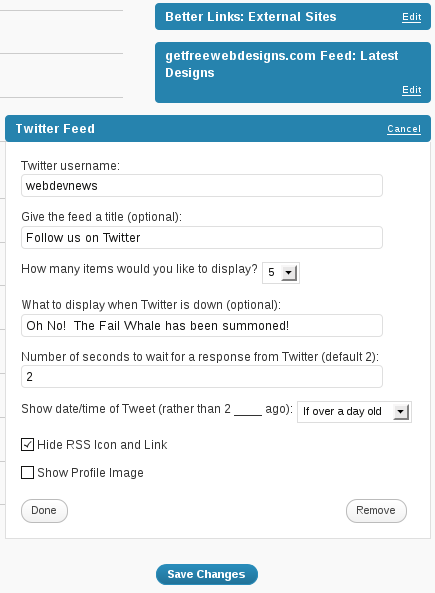
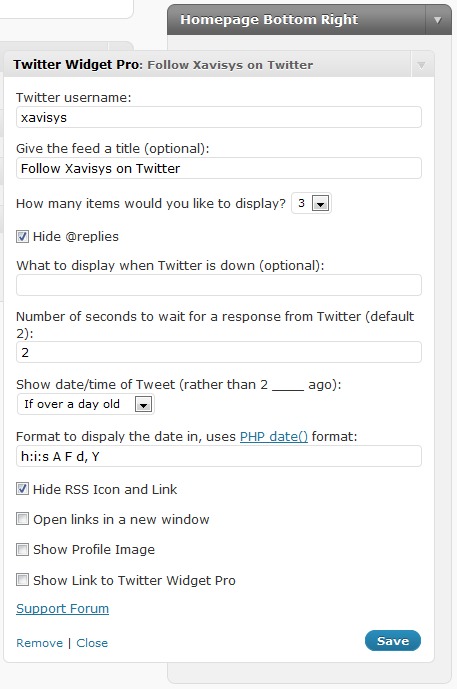
Tagging version 2.1.3 with new screenshots, the date format as a setting, and an extraneous closing XHTML tag removed
git-svn-id: https://plugins.svn.wordpress.org/twitter-widget-pro/tags/2.1.3@174968 b8457f37-d9ea-0310-8a92-e5e31aec5664

diff --git a/upgrade.html b/upgrade.html
@@ -1,5 +1,7 @@
 <p><a href="http://wordpress.org/extend/plugins/twitter-widget-pro/changelog/">Change Log</a></p>
 <ul style="list-style: disc inside; padding: 5px 0 0 15px; font-weight: normal;">
+	<li>2.1.2: Added links to the <a href="http://xavisys.com/support/forum/twitter-widget-pro/">Support Forum</a></li>
+	<li>2.1.2: Fixed spacing issue that was introduced in 2.1.1</li>
 	<li>2.1.1: Added an option to have all links open in new Windows</li>
 	<li>2.1.0: Added a shortcode to allow you to embed a widget in any post or page</li>
 	<li style="color:red; font-weight:bold;">2.0+: Now requires WordPress 2.8 and still requires PHP 5+</li>

diff --git a/wp-twitter-widget.php b/wp-twitter-widget.php
@@ -3,7 +3,7 @@
  * Plugin Name: Twitter Widget Pro
  * Plugin URI: http://xavisys.com/wordpress-plugins/wordpress-twitter-widget/
  * Description: A widget that properly handles twitter feeds, including @username, #hashtag, and link parsing.  It can even display profile images for the users.  Requires PHP5.
- * Version: 2.1.1
+ * Version: 2.1.3
  * Author: Aaron D. Campbell
  * Author URI: http://xavisys.com/
  * Text Domain: twitter-widget-pro
@@ -60,6 +60,7 @@ class WP_Widget_Twitter_Pro extends WP_Widget {
 								'targetBlank'		=> false,
 								'items'				=> 10,
 								'showts'			=> 60 * 60 * 24,
+								'dateFormat'		=> __('h:i:s A F d, Y', 'twitter-widget-pro'),
 		);
 
 		return wp_parse_args( $instance, $defaultArgs );
@@ -67,6 +68,7 @@ class WP_Widget_Twitter_Pro extends WP_Widget {
 
 	public function form( $instance ) {
 		$instance = $this->_getInstanceSettings( $instance );
+		$wpTwitterWidget = wpTwitterWidget::getInstance();
 ?>
 			<p>
 				<label for="<?php echo $this->get_field_id('username'); ?>"><?php _e('Twitter username:', 'twitter-widget-pro'); ?></label>
@@ -111,6 +113,10 @@ class WP_Widget_Twitter_Pro extends WP_Widget {
 				</select>
 			</p>
 			<p>
+				<label for="<?php echo $this->get_field_id('dateFormat'); ?>"><?php echo sprintf(__('Format to dispaly the date in, uses <a href="%s">PHP date()</a> format:', 'twitter-widget-pro'), 'http://php.net/date'); ?></label>
+				<input class="widefat" id="<?php echo $this->get_field_id('dateFormat'); ?>" name="<?php echo $this->get_field_name('dateFormat'); ?>" type="text" value="<?php esc_attr_e($instance['dateFormat']); ?>" />
+			</p>
+			<p>
 				<input class="checkbox" type="checkbox" value="true" id="<?php echo $this->get_field_id('hiderss'); ?>" name="<?php echo $this->get_field_name('hiderss'); ?>"<?php checked($instance['hiderss'], 'true'); ?> />
 				<label for="<?php echo $this->get_field_id('hiderss'); ?>"><?php _e('Hide RSS Icon and Link', 'twitter-widget-pro'); ?></label>
 			</p>
@@ -126,6 +132,7 @@ class WP_Widget_Twitter_Pro extends WP_Widget {
 				<input class="checkbox" type="checkbox" value="true" id="<?php echo $this->get_field_id('showXavisysLink'); ?>" name="<?php echo $this->get_field_name('showXavisysLink'); ?>"<?php checked($instance['showXavisysLink'], 'true'); ?> />
 				<label for="<?php echo $this->get_field_id('showXavisysLink'); ?>"><?php _e('Show Link to Twitter Widget Pro', 'twitter-widget-pro'); ?></label>
 			</p>
+			<p><?php echo $wpTwitterWidget->getSupportForumLink(); ?></p>
 <?php
 		return;
 	}
@@ -183,13 +190,13 @@ class wpTwitterWidget
 		/**
 		 * Add filters and actions
 		 */
-		add_filter( 'init', array( $this, 'init_locale') );
-		add_action( 'widgets_init', array($this, 'register') );
-		add_filter( 'widget_twitter_content', array($this, 'linkTwitterUsers') );
-		add_filter( 'widget_twitter_content', array($this, 'linkUrls') );
-		add_filter( 'widget_twitter_content', array($this, 'linkHashtags') );
+		add_filter( 'init', array( $this, 'init_locale' ) );
+		add_action( 'widgets_init', array( $this, 'register' ) );
+		add_filter( 'widget_twitter_content', array( $this, 'linkTwitterUsers' ) );
+		add_filter( 'widget_twitter_content', array( $this, 'linkUrls' ) );
+		add_filter( 'widget_twitter_content', array( $this, 'linkHashtags' ) );
 		add_filter( 'widget_twitter_content', 'convert_chars' );
-		add_filter( 'plugin_action_links', array($this, 'addWidgetLink'), 10, 2 );
+		add_filter( 'plugin_action_links', array( $this, 'addPluginPageLinks' ), 10, 2 );
 		add_action ( 'in_plugin_update_message-'.plugin_basename ( __FILE__ ) , array ( $this , '_changelog' ), null, 2 );
 		add_shortcode( 'twitter-widget', array( $this, 'handleShortcodes' ) );
 	}
@@ -243,13 +250,21 @@ class wpTwitterWidget
 		return '<strong>' . $this->_buildLink($user->screen_name, $attrs) . '</strong>';
 	}
 
-	public function addWidgetLink( $links, $file ){
+	public function addPluginPageLinks( $links, $file ){
 		if ( $file == plugin_basename(__FILE__) ) {
-			// Add settings link to our plugin
+			// Add Widget Page link to our plugin
 			$link = '<a href="widgets.php">' . __('Manage Widgets', 'twitter-widget-pro') . '</a>';
+			array_unshift( $links, $link );
+
+			// Add Support Forum link to our plugin
+			$link = $this->getSupportForumLink();
 			array_unshift( $links, $link );
 		}
 		return $links;
+	}
+
+	public function getSupportForumLink() {
+		return '<a href="http://xavisys.com/support/forum/twitter-widget-pro/">' . __('Support Forum', 'efficient_related_posts') . '</a>';
 	}
 
 	/**
@@ -407,7 +422,6 @@ class wpTwitterWidget
 		}
 		$twitterLink = 'http://twitter.com/' . $args['username'];
 
-		$args['after_title'] = '</a>' . $args['after_title'];
 		if (empty($args['title'])) {
 			$args['title'] = "Twitter: {$args['username']}";
 		}
@@ -433,19 +447,19 @@ class wpTwitterWidget
 			foreach ($tweets as $tweet) {
 				if ( $args['hidereplies'] != 'true' || empty($tweet->in_reply_to_user_id)) {
 					// Set our "ago" string which converts the date to "# ___(s) ago"
-					$tweet->ago = $this->_timeSince(strtotime($tweet->created_at), $args['showts']);
+					$tweet->ago = $this->_timeSince(strtotime($tweet->created_at), $args['showts'], $args['dateFormat']);
 					$entryContent = apply_filters( 'widget_twitter_content', $tweet->text );
 					$from = sprintf(__('from %s', 'twitter-widget-pro'), str_replace('&', '&amp;', $tweet->source));
 					$widgetContent .= '<li>';
 					$widgetContent .= "<span class='entry-content'>{$entryContent}</span>";
-					$widgetContent .= "<span class='entry-meta'>";
+					$widgetContent .= " <span class='entry-meta'>";
 					$widgetContent .= "<span class='time-meta'>";
 					$linkAttrs = array(
 						'href'	=> "http://twitter.com/{$tweet->user->screen_name}/statuses/{$tweet->id}"
 					);
 					$widgetContent .= $this->_buildLink($tweet->ago, $linkAttrs);
 					$widgetContent .= '</span>';
-					$widgetContent .= "<span class='from-meta'>{$from}</span>";
+					$widgetContent .= " <span class='from-meta'>{$from}</span>";
 					if ( !empty($tweet->in_reply_to_screen_name) ) {
 						$rtLinkText = sprintf( __('in reply to %s', 'twitter-widget-pro'), $tweet->in_reply_to_screen_name );
 						$widgetContent .=  '<span class="in-reply-to-meta">';
@@ -578,7 +592,7 @@ class wpTwitterWidget
 	 * @param int $max - Max number of seconds to conver to "ago" messages.  0 for all, -1 for none
 	 * @return string
 	 */
-	private function _timeSince($startTimestamp, $max) {
+	private function _timeSince($startTimestamp, $max, $dateFormat) {
 		// array of time period chunks
 		$chunks = array(
 			'year'		=> 60 * 60 * 24 * 365,	// 31,536,000 seconds
@@ -593,7 +607,7 @@ class wpTwitterWidget
 		$since = time() - $startTimestamp;
 
 		if ($max != '-1' && $since >= $max) {
-			return date_i18n(__('h:i:s A F d, Y', 'twitter-widget-pro'), $startTimestamp);
+			return date_i18n( $dateFormat, $startTimestamp);
 		}
 
 		foreach ( $chunks as $key => $seconds ) {
@@ -654,6 +668,7 @@ class wpTwitterWidget
 			'targetBlank'		=> false,
 			'items'				=> 10,
 			'showts'			=> 60 * 60 * 24,
+			'dateFormat'		=> __('h:i:s A F d, Y', 'twitter-widget-pro'),
 		);
 		if ( !empty($content) && empty($attr['title']) ) {
 			$attr['title'] = $content;
